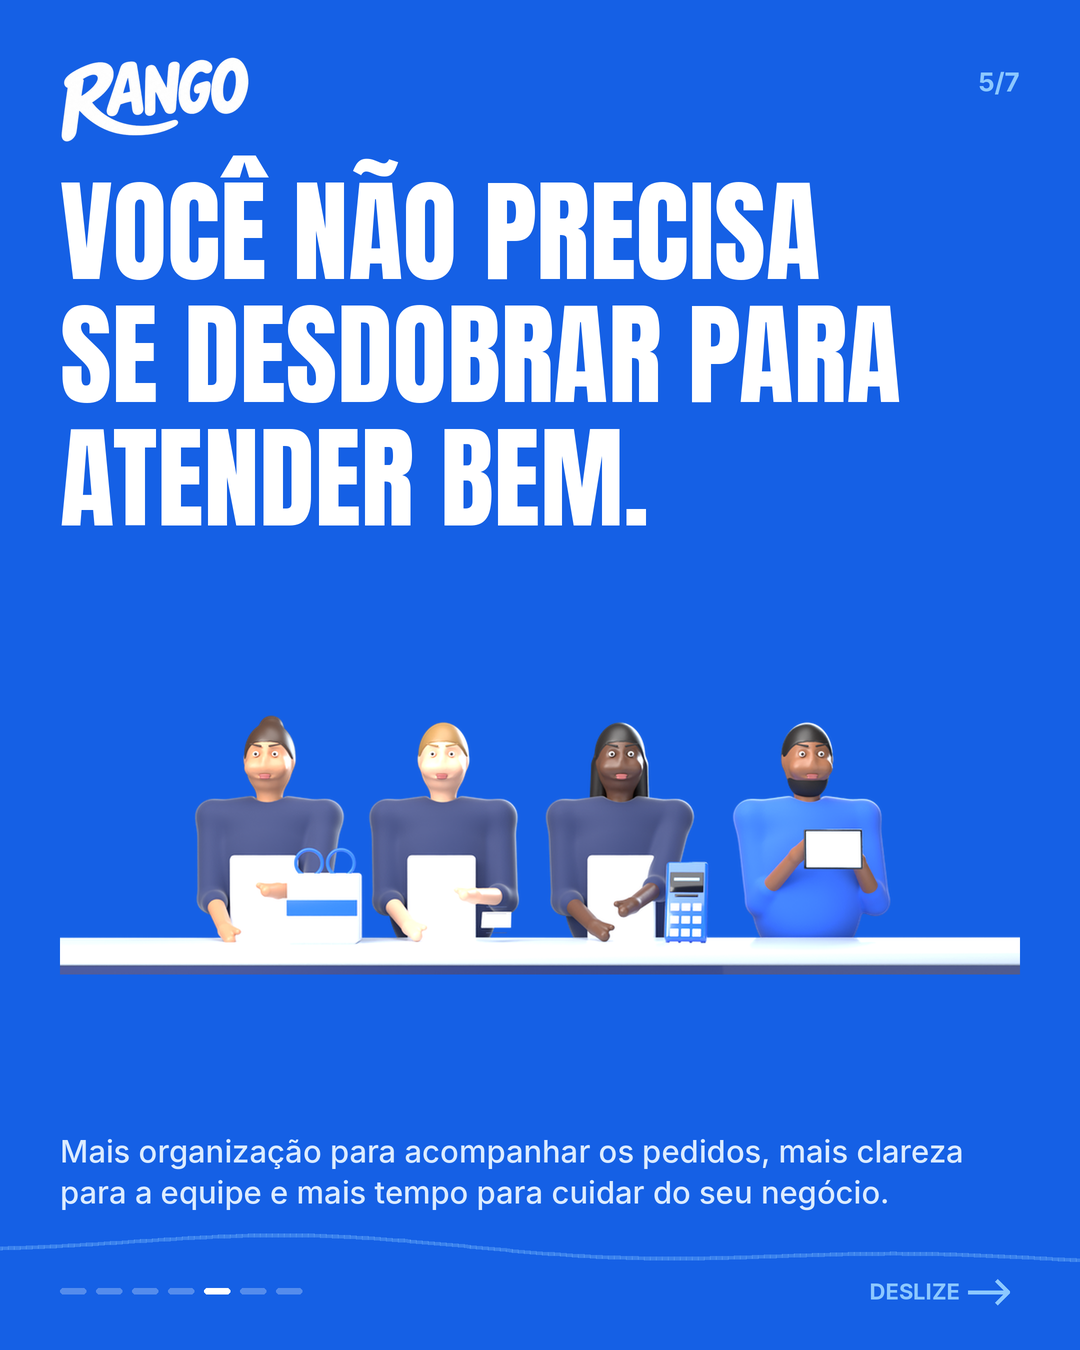
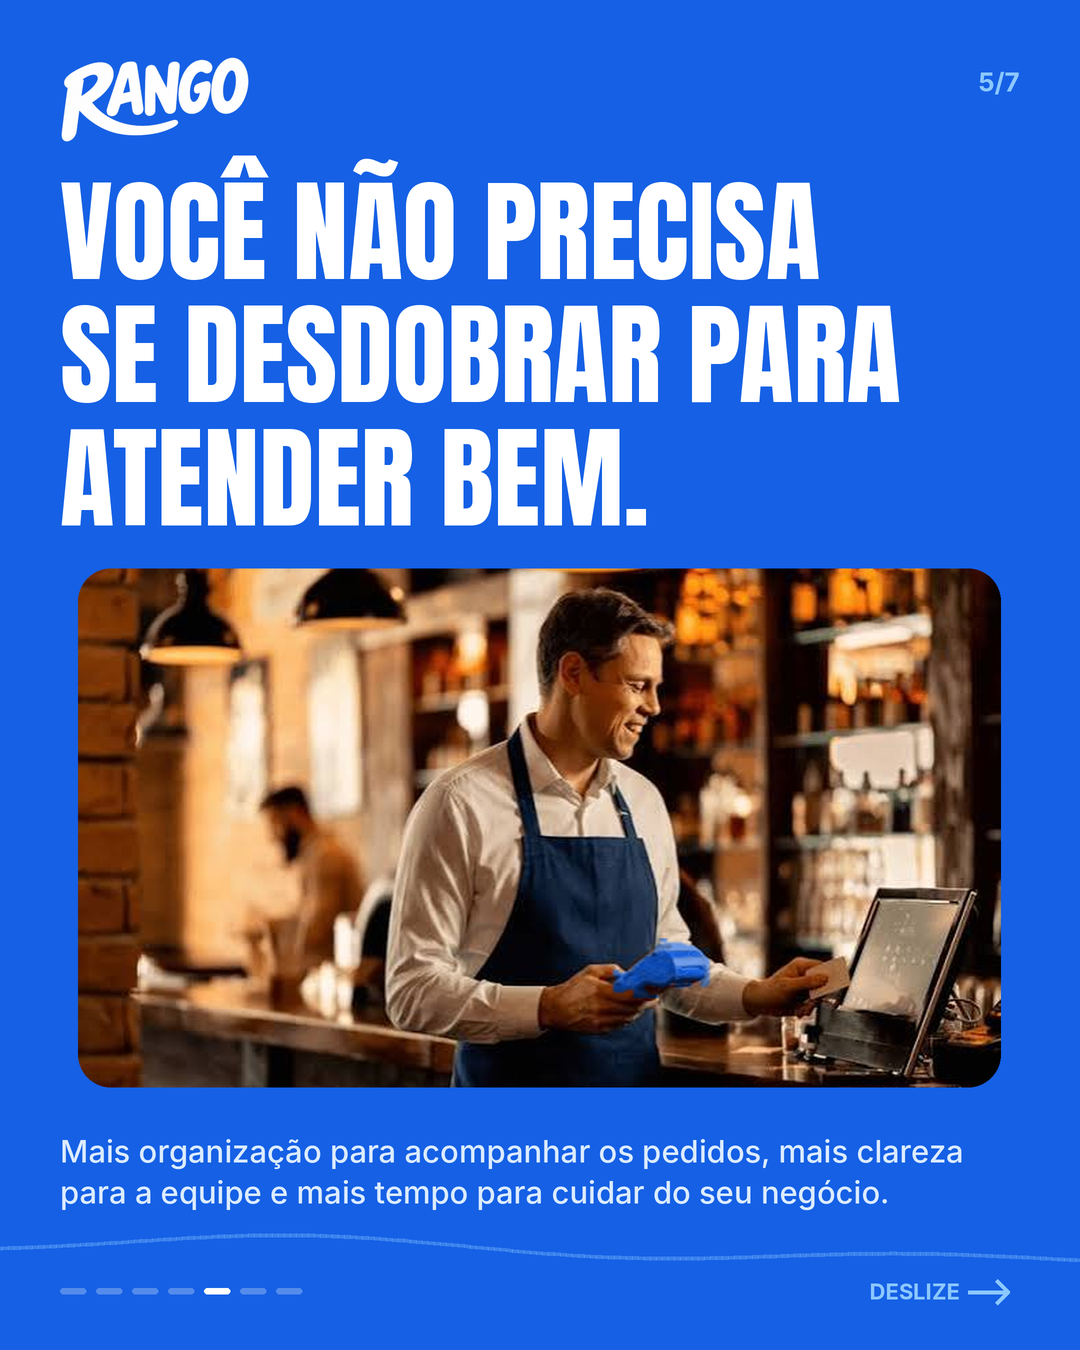
Carrossel Rango: pagina 5 com foto real (maquininha recolorida para azul)
Claude-Session: https://claude.ai/code/session_016NwTgTzAqM3zwqS1ziD931

diff --git a/carrossel-rango/carrossel.py b/carrossel-rango/carrossel.py
@@ -135,6 +135,15 @@ class FotoLayer:
         k = base_w/im.width; im = im.resize((base_w, int(im.height*k)), Image.LANCZOS)
         self.w, self.h = im.size; self.img = im.resize((self.w*S, self.h*S), Image.LANCZOS)
 
+def foto_card(path, w=960, h=560, radius=34):
+    """foto real em cartao arredondado (cobre w x h, recorte centralizado), em escala S."""
+    im = Image.open(path).convert('RGB'); k = max(w/im.width, h/im.height)
+    im = im.resize((int(im.width*k*S), int(im.height*k*S)), Image.LANCZOS)
+    l, t = (im.width-w*S)//2, int((im.height-h*S)*0.40); im = im.crop((l, t, l+w*S, t+h*S)).convert('RGBA')
+    m = Image.new('L', im.size, 0); ImageDraw.Draw(m).rounded_rectangle([0, 0, im.width-1, im.height-1], radius*S, fill=255); im.putalpha(m)
+    class L_: pass
+    o = L_(); o.img, o.w, o.h = im, w, h; return o
+
 def place(c, layer, top, bottom):
     """encaixa a camada de ilustracao (RGBA, em escala S) centralizada entre top e bottom, sem ampliar."""
     im = layer.img; w, h = layer.w, layer.h; k = min(1.0, (bottom-top)/h, 960/w)
@@ -203,8 +212,8 @@ def slide4():
 def slide5():
     apoio = 'Mais organização para acompanhar os pedidos, mais clareza para a equipe e mais tempo para cuidar do seu negócio.'
     c, tb, bt = base_slide(5, BLUE, ['VOCÊ NÃO PRECISA', 'SE DESDOBRAR PARA', 'ATENDER BEM.'], 112, apoio)
-    foto = os.path.join(HERE, 'assets', 'cena_equipe.png')
-    if os.path.exists(foto): place(c, FotoLayer(foto, 1000, 0.66), tb+40, bt-20); return c.out()
+    foto = os.path.join(HERE, 'assets', 'foto_atendente.png')
+    if os.path.exists(foto): place(c, foto_card(foto, 960, 540), tb+30, bt-44); return c.out()
     L = C(None, (1080, 560), True); by = 530
     L.rr([60, by-6, W-60, by+30], 18, fill=(7, 20, 52, 120))
     person(L, 210, by, 0.95, arms=[(210-90, by-330)], calm=True, shirt=NAVY); tray(L, 210-165, by-345, 150)
